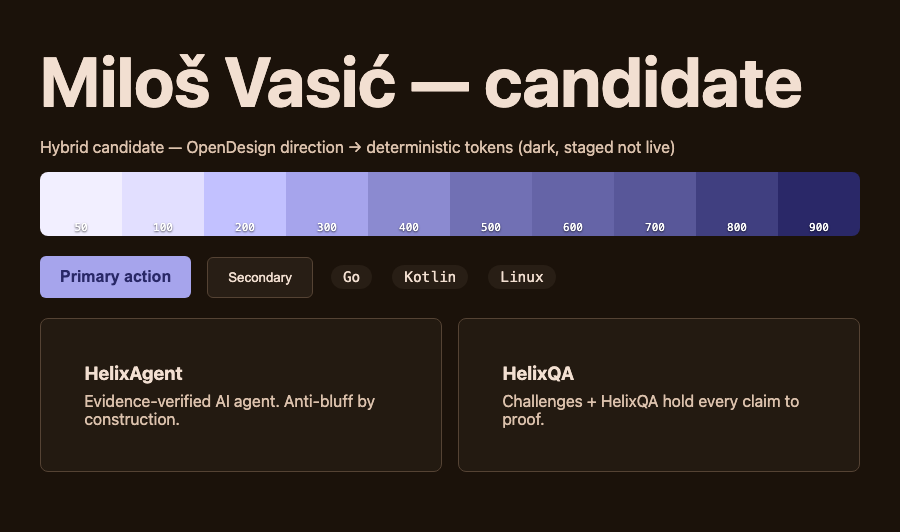
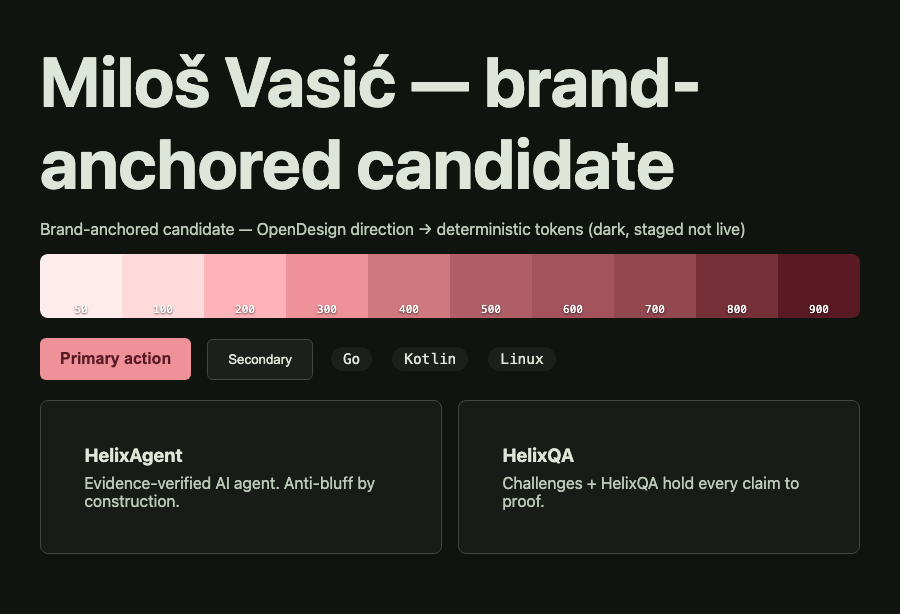
chore(§11.4.162): bump design-toolkit → anchoring+QA+docs; fix determinism §-cite; anchored previews
design-toolkit 520c436: brand-hue anchoring, HelixQA token bank (5/5 PASS both
sites, golden-bad teeth), hybrid-pipeline guide. Candidates staged (crimson-family
anchored) — live design unchanged.

fix: v171-hardcoding-testbank.md cited §11.4.65 for render determinism; the actual
anchor is §11.4.50 (Deterministic Consistency Mandate) — §11.4.65 is the Markdown
export mandate. Corrected (caught by the docs agent, confirmed against Constitution.md).

CANDIDATE-*.png regenerated for the brand-anchored tokens (crimson, not the earlier
free-hue gold/indigo).

diff --git a/_tests/helixqa/v171-hardcoding-testbank.md b/_tests/helixqa/v171-hardcoding-testbank.md
@@ -21,7 +21,7 @@ all four gate detectors were verified to fire against injected violations (hardc
 
 **Localization / data mandate:** enforces Helix Constitution **§11.4.140/141**
 (localized strings are DATA, no English leakage into a localized surface),
-**§11.4.216** (generated values, never invented/hardcoded), **§11.4.65** (render
+**§11.4.216** (generated values, never invented/hardcoded), **§11.4.50** (render
 determinism — identical source ⇒ byte-identical output).
 
 `feature_class = v171_hardcoding`. Evidence → `_tests/evidence/hardcoded-audit-v171/`.
@@ -51,7 +51,7 @@ responsible specialist on any FAIL; never relax the assertion).
 
 ---
 
-## C67-FOOTER — deterministic © year (§11.4.216 / §11.4.65)
+## C67-FOOTER — deterministic © year (§11.4.216 / §11.4.50)
 
 **Claim.** The footer copyright year is GENERATED (pinned via `-ldflags -X
 main.buildYear` on vasic; ephemeral `_config.deploy.yml` on milos Jekyll), never a
